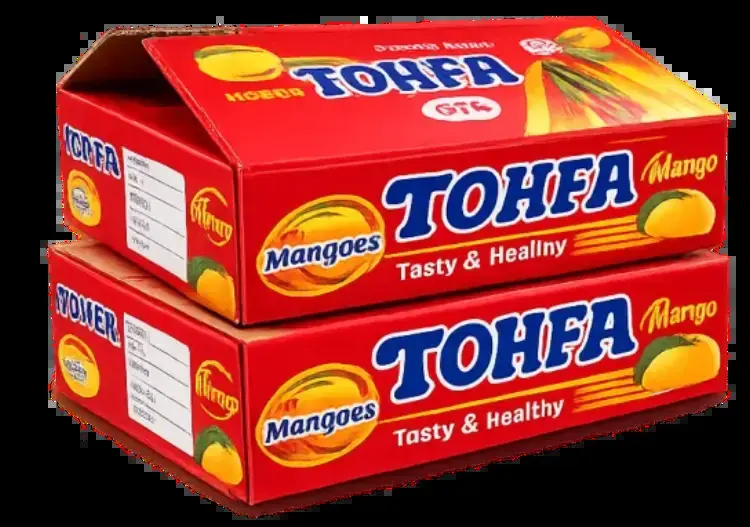
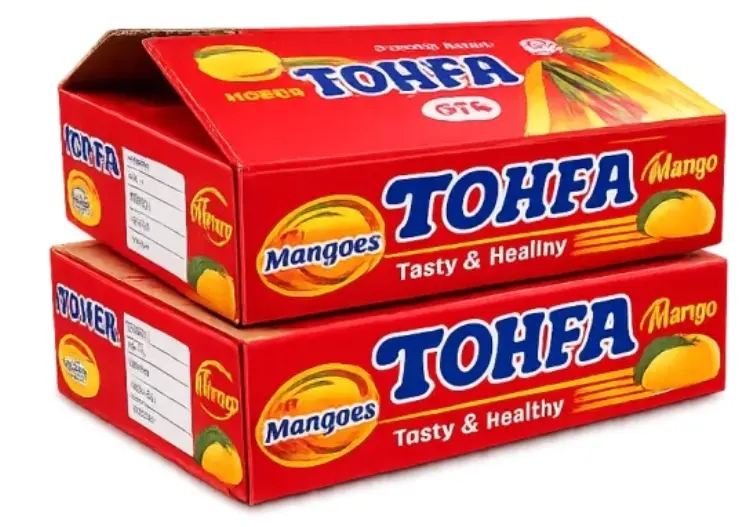
V21

diff --git a/index.html b/index.html
@@ -80,7 +80,7 @@
             <!-- Corrugated Pallets -->
             <div class="fade-in" style="flex: 1; min-width: 280px; background: white; border-radius: 10px; overflow: hidden; box-shadow: var(--shadow-sm); display: flex; flex-direction: row; border-left: 4px solid var(--primary-red);">
               <div style="width: 160px; min-height: 140px; flex-shrink: 0; background: white;">
-                <img src="/pallet.webp" alt="Corrugated Pallets" style="width: 100%; height: 100%; object-fit: cover;" />
+                <img src="/pallet.webp" alt="Corrugated Pallets" />
               </div>
               <div style="padding: 20px; display: flex; flex-direction: column; justify-content: center;">
                 <h3 style="color: var(--dark-text); font-size: 1.2rem; margin-bottom: 8px;">Corrugated Pallets</h3>
@@ -131,8 +131,8 @@
             </a>
             <!-- Peach Box -->
             <a href="/products.html" class="fade-in" style="background: white; border-radius: 12px; overflow: hidden; box-shadow: 0 4px 15px rgba(0,0,0,0.05); text-decoration: none; transition: transform 0.3s ease, box-shadow 0.3s ease;">
-              <div style="height: 160px; overflow: hidden;">
-                <img src="/peach_box.webp" alt="Peach Box" style="width: 100%; height: 100%; object-fit: cover;" width="750" height="565" loading="lazy" />
+              <div class="product-image-wrapper">
+                <img src="/peach_box.webp" alt="Peach Box" width="750" height="565" loading="lazy" />
               </div>
               <div style="padding: 18px; text-align: center;">
                 <h4 style="color: var(--dark-text); font-size: 1.1rem; margin-bottom: 4px;">Peach Box</h4>
@@ -141,8 +141,8 @@
             </a>
             <!-- Shimla Mirch Box -->
             <a href="/products.html" class="fade-in" style="background: white; border-radius: 12px; overflow: hidden; box-shadow: 0 4px 15px rgba(0,0,0,0.05); text-decoration: none; transition: transform 0.3s ease, box-shadow 0.3s ease;">
-              <div style="height: 160px; overflow: hidden;">
-                <img src="/shimla_mirch_box_new.webp" alt="Shimla Mirch Box" style="width: 100%; height: 100%; object-fit: cover;" width="750" height="565" loading="lazy" />
+              <div class="product-image-wrapper">
+                <img src="/shimla_mirch_box_new.webp" alt="Shimla Mirch Box" width="750" height="565" loading="lazy" />
               </div>
               <div style="padding: 18px; text-align: center;">
                 <h4 style="color: var(--dark-text); font-size: 1.1rem; margin-bottom: 4px;">Shimla Mirch Box</h4>
@@ -151,8 +151,8 @@
             </a>
             <!-- Bhindi Box -->
             <a href="/products.html" class="fade-in" style="background: white; border-radius: 12px; overflow: hidden; box-shadow: 0 4px 15px rgba(0,0,0,0.05); text-decoration: none; transition: transform 0.3s ease, box-shadow 0.3s ease;">
-              <div style="height: 160px; overflow: hidden;">
-                <img src="/bhindi.webp" alt="Bhindi Box" style="width: 100%; height: 100%; object-fit: cover;" width="750" height="566" loading="lazy" />
+              <div class="product-image-wrapper">
+                <img src="/bhindi.webp" alt="Bhindi Box" width="750" height="566" loading="lazy" />
               </div>
               <div style="padding: 18px; text-align: center;">
                 <h4 style="color: var(--dark-text); font-size: 1.1rem; margin-bottom: 4px;">Bhindi Box</h4>
@@ -161,8 +161,8 @@
             </a>
             <!-- Flower Box -->
             <a href="/products.html" class="fade-in" style="background: white; border-radius: 12px; overflow: hidden; box-shadow: 0 4px 15px rgba(0,0,0,0.05); text-decoration: none; transition: transform 0.3s ease, box-shadow 0.3s ease;">
-              <div style="height: 160px; overflow: hidden;">
-                <img src="/flower_box.webp" alt="Flower Box" style="width: 100%; height: 100%; object-fit: cover;" width="750" height="582" loading="lazy" />
+              <div class="product-image-wrapper">
+                <img src="/flower_box.webp" alt="Flower Box" width="750" height="582" loading="lazy" />
               </div>
               <div style="padding: 18px; text-align: center;">
                 <h4 style="color: var(--dark-text); font-size: 1.1rem; margin-bottom: 4px;">Flower Box</h4>
@@ -171,8 +171,8 @@
             </a>
             <!-- Industrial Boxes -->
             <a href="/products.html" class="fade-in" style="background: white; border-radius: 12px; overflow: hidden; box-shadow: 0 4px 15px rgba(0,0,0,0.05); text-decoration: none; transition: transform 0.3s ease, box-shadow 0.3s ease;">
-              <div style="height: 160px; overflow: hidden;">
-                <img src="/boxes.webp" alt="Industrial Boxes" style="width: 100%; height: 100%; object-fit: cover;" />
+              <div class="product-image-wrapper">
+                <img src="/boxes.webp" alt="Industrial Boxes" />
               </div>
               <div style="padding: 18px; text-align: center;">
                 <h4 style="color: var(--dark-text); font-size: 1.1rem; margin-bottom: 4px;">Industrial Boxes</h4>
@@ -181,8 +181,8 @@
             </a>
             <!-- Crate-Size Box -->
             <a href="/products.html" class="fade-in" style="background: white; border-radius: 12px; overflow: hidden; box-shadow: 0 4px 15px rgba(0,0,0,0.05); text-decoration: none; transition: transform 0.3s ease, box-shadow 0.3s ease;">
-              <div style="height: 160px; overflow: hidden;">
-                <img src="/crate_box_new.webp" alt="Crate Size Box" style="width: 100%; height: 100%; object-fit: contain; background: #f5f5f5;" width="500" height="377" loading="lazy" />
+              <div class="product-image-wrapper">
+                <img src="/crate_box_new.webp" alt="Crate Size Box" width="500" height="377" loading="lazy" />
               </div>
               <div style="padding: 18px; text-align: center;">
                 <h4 style="color: var(--dark-text); font-size: 1.1rem; margin-bottom: 4px;">Crate-Size Box</h4>

diff --git a/style.css b/style.css
@@ -345,9 +345,9 @@ footer {
 .product-image-wrapper {
   position: relative;
   overflow: hidden;
-  background: #f5f5f5;
+  background: #fff;
   width: 100%;
-  height: 200px;
+  height: 220px;
   display: flex;
   align-items: center;
   justify-content: center;
@@ -356,7 +356,9 @@ footer {
 .product-image-wrapper img {
   width: 100%;
   height: 100%;
-  object-fit: cover;
+  object-fit: contain;
+  padding: 8px;
+  box-sizing: border-box;
   transition: transform 0.6s var(--smooth-bezier);
 }
 
@@ -369,13 +371,8 @@ footer {
   position: relative;
   overflow: hidden;
   width: 100%;
-  height: 200px;
-  background: #f5f5f5;
-}
-
-/* Products page has taller cards */
-.product-card-tall .slideshow {
-  height: 240px;
+  height: 220px;
+  background: #fff;
 }
 
 .slide {
@@ -394,8 +391,11 @@ footer {
 .slide img {
   width: 100%;
   height: 100%;
-  object-fit: cover;
+  object-fit: contain;
   display: block;
+  padding: 8px;
+  box-sizing: border-box;
+  background: #fff;
 }
 
 /* Dot indicators */

diff --git a/products.html b/products.html
@@ -44,7 +44,7 @@
           <div style="display: grid; grid-template-columns: repeat(auto-fit, minmax(300px, 1fr)); gap: 40px; margin-bottom: 40px;">
 
             <!-- Apple Box -->
-            <div class="fade-in product-card-tall" style="background: white; border-radius: 8px; overflow: hidden; box-shadow: 0 4px 15px rgba(0,0,0,0.05); display: flex; flex-direction: column;">
+            <div class="fade-in" style="background: white; border-radius: 8px; overflow: hidden; box-shadow: 0 4px 15px rgba(0,0,0,0.05); display: flex; flex-direction: column;">
               <div class="slideshow" style="border-bottom: 4px solid var(--primary-red);">
                 <div class="slide"><img src="/apple4.webp" alt="Apple Box 1" /></div>
                 <div class="slide"><img src="/apple.webp"  alt="Apple Box 2" /></div>
@@ -64,7 +64,7 @@
             </div>
 
             <!-- Mango Box -->
-            <div class="fade-in product-card-tall" style="background: white; border-radius: 8px; overflow: hidden; box-shadow: 0 4px 15px rgba(0,0,0,0.05); display: flex; flex-direction: column;">
+            <div class="fade-in" style="background: white; border-radius: 8px; overflow: hidden; box-shadow: 0 4px 15px rgba(0,0,0,0.05); display: flex; flex-direction: column;">
               <div class="slideshow" style="border-bottom: 4px solid var(--primary-red);">
                 <div class="slide"><img src="/mango.webp" alt="Mango Box" /></div>
                 <div class="slideshow-dots"></div>
@@ -148,8 +148,6 @@
                   <a href="/contact.html?product=bhindi-box&type=sample" style="flex: 1; text-align: center; padding: 8px 0; font-size: 0.85rem; font-weight: 600; text-decoration: none; color: var(--primary-red); background: white; border: 1px solid var(--primary-red); border-left: none; border-radius: 0 6px 6px 0;">Sample</a>
                 </div>
               </div>
-            </div>
-
             </div>
 
             <!-- Flower Box -->